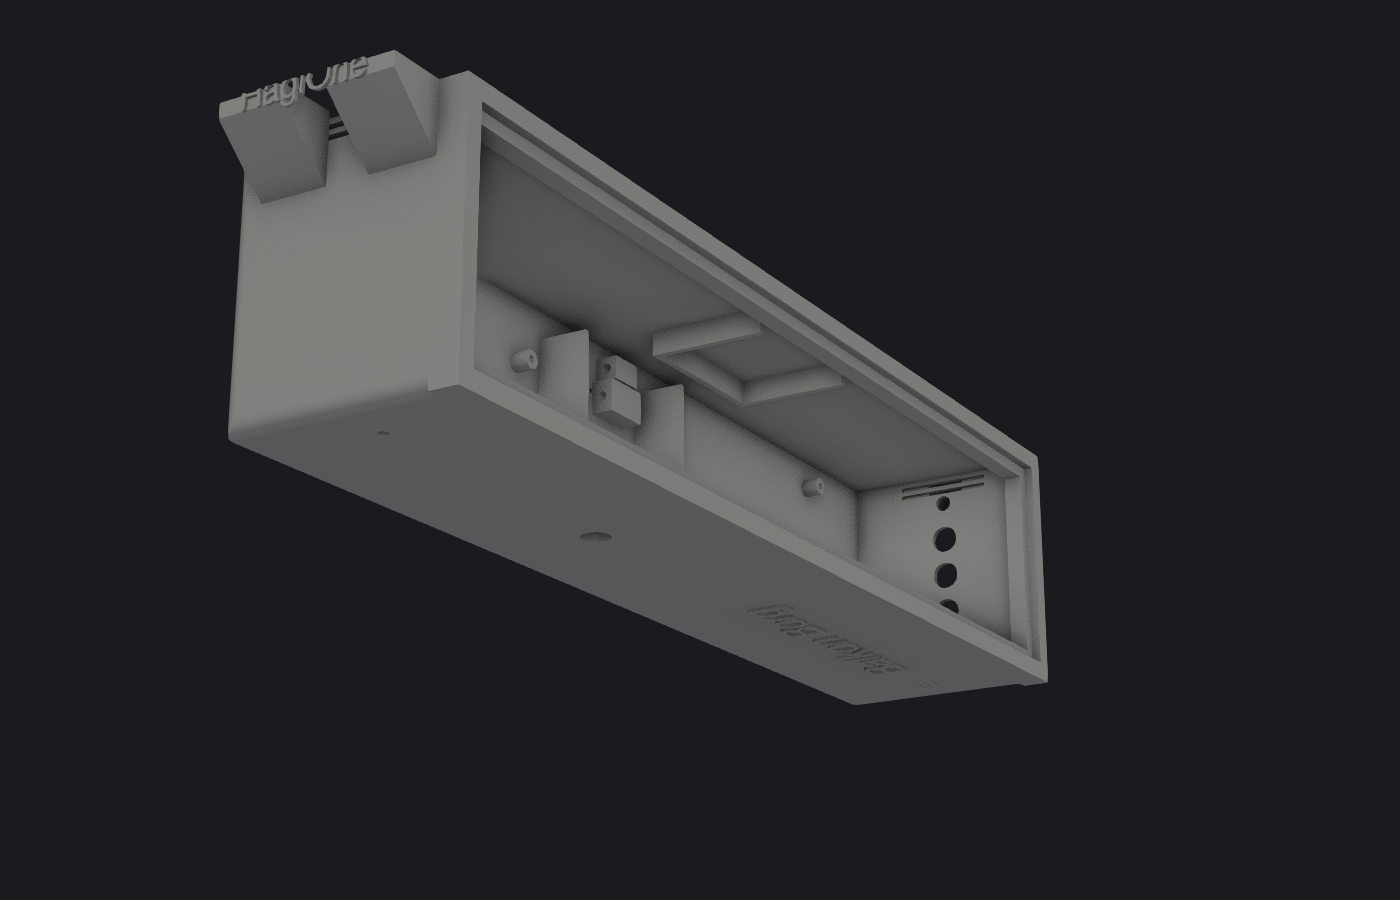
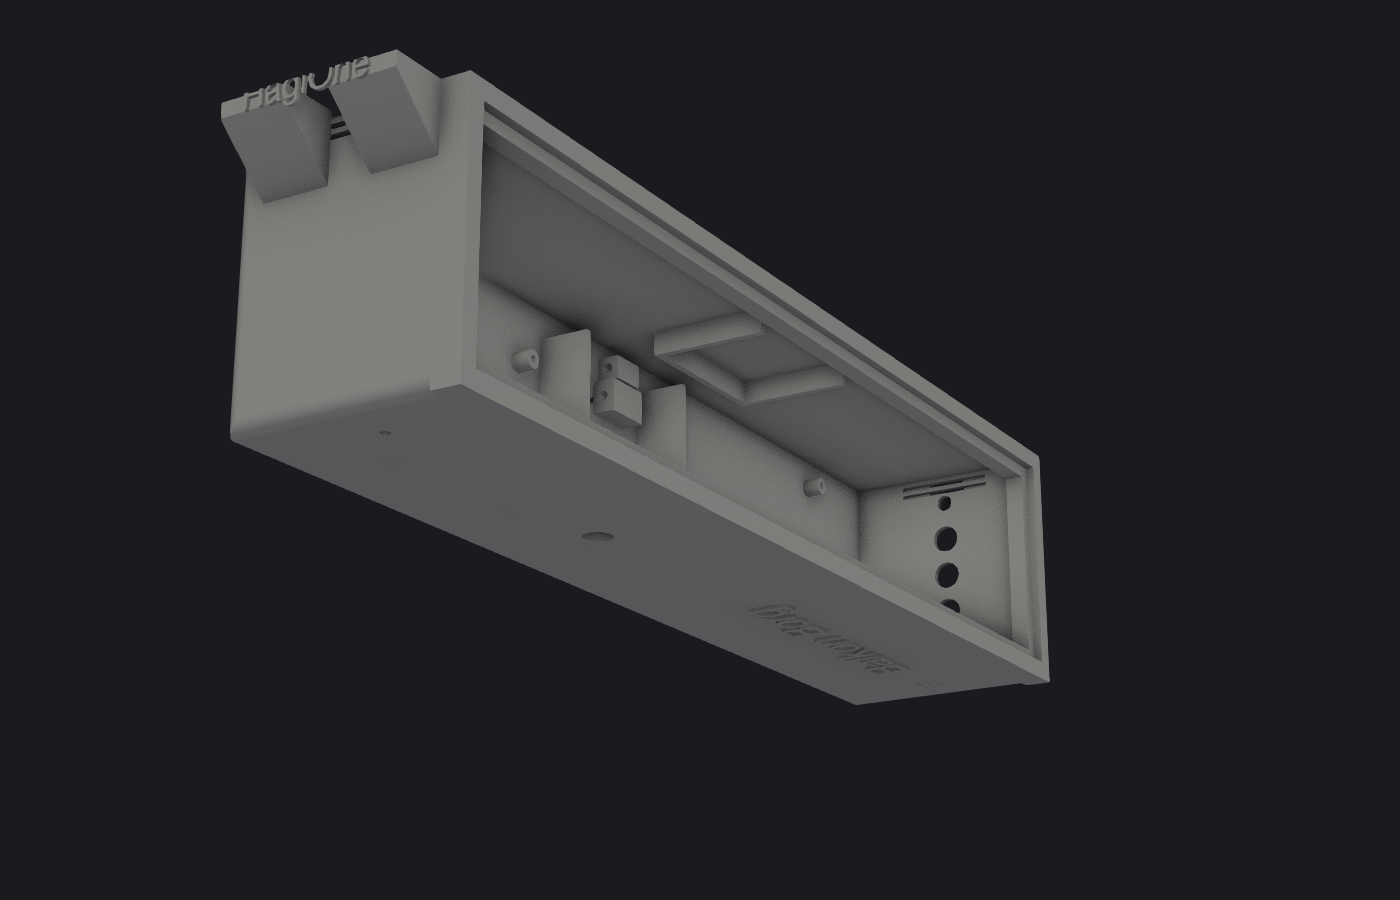
cad: diagonal rear louvres and HagiOne on the rear wall
Turn the straight rear intake slits into a group of diagonal louvres in
the clear zone between the boards (styling cue, same insect-safe 2 mm
gap), and add the raised HagiOne wordmark to the rear wall above them.

Claude-Session: https://claude.ai/code/session_01X3XcqyQcw3eP146g1EdqWY

Changed region(s): [[0.1843, 0.0622, 0.2764, 0.1244], [0.3379, 0.1244, 0.3993, 0.1867]]

diff --git a/cad/balkon_borg.py b/cad/balkon_borg.py
@@ -289,12 +289,15 @@ def build_body() -> cq.Workplane:
         body = body.cut(_cyl(PWR_SCREW_D, WALL + 2 * EPS,
                              cq.Vector(px, -EPS, pz + s * PWR_SCREW_DZ / 2),
                              cq.Vector(0, 1, 0)))
-    # Intake: narrow slits in the rear wall in the clear zone between carrier and
-    # Pi (the old vents sat behind the boards). 2 mm slits keep insects out.
-    for z in (25, 40, 55, 70, 85):
-        body = body.cut(cq.Solid.makeBox(
-            30.0, WALL + 2 * EPS, VENT_SLIT,
-            cq.Vector(VENT_MID_X - 15, -EPS, z - VENT_SLIT / 2)))
+    # Diagonal ventilation louvres in the rear wall, in the clear zone between the
+    # carrier and the Pi. 2 mm slits keep insects out; the diagonal is a styling cue.
+    for z in (20, 34, 48, 62, 76):
+        louvre = cq.Solid.makeBox(
+            40.0, WALL + 2 * EPS, VENT_SLIT,
+            cq.Vector(VENT_MID_X - 20, -EPS, z - VENT_SLIT / 2))
+        louvre = louvre.rotate(cq.Vector(VENT_MID_X, 0, z),
+                               cq.Vector(VENT_MID_X, 1, z), 30)
+        body = body.cut(louvre)
     # Exhaust: slits high on both end walls (hot air rises; the top is ceiling).
     for sx in (1, -1):
         for z in (VENT_END_Z, VENT_END_Z + 4):
@@ -383,6 +386,9 @@ def build_body() -> cq.Workplane:
             .text(TEXT_RIGHT, TEXT_SIZE, TEXT_DEPTH, combine=True))
     body = (body.faces("<Z").workplane(centerOption="CenterOfBoundBox")
             .center(BOTTOM_X, 0).text(TEXT_BOTTOM, BOTTOM_SIZE, TEXT_DEPTH, combine=True))
+    # HagiOne also on the rear wall, in the clear upper band above the louvres.
+    body = (body.faces("<Y").workplane(centerOption="CenterOfBoundBox")
+            .center(0, 35).text(TEXT_RIGHT, TEXT_SIZE, TEXT_DEPTH, combine=True))
 
     # Trim any boolean sliver above the ceiling plane so the ear tops stay flat.
     body = body.cut(cq.Solid.makeBox(